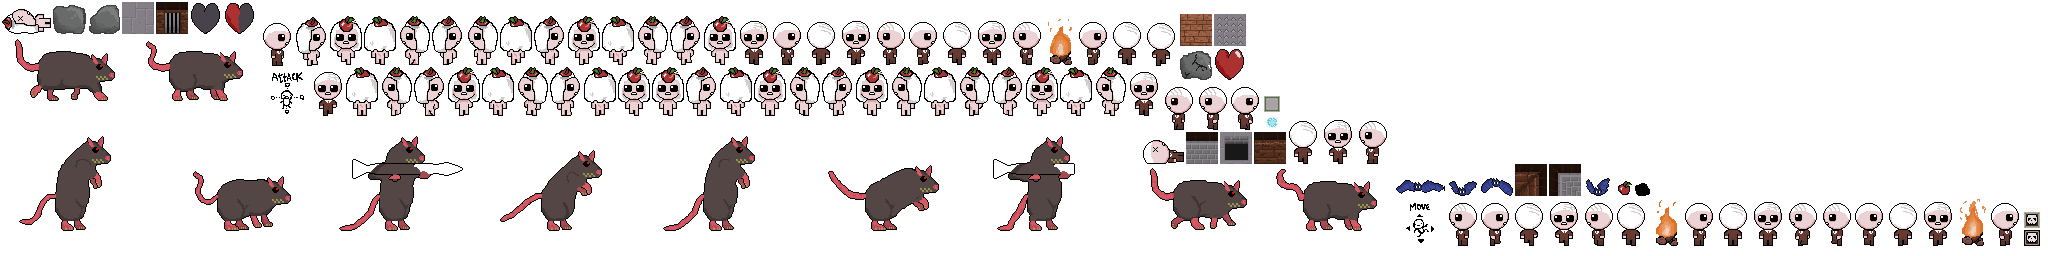
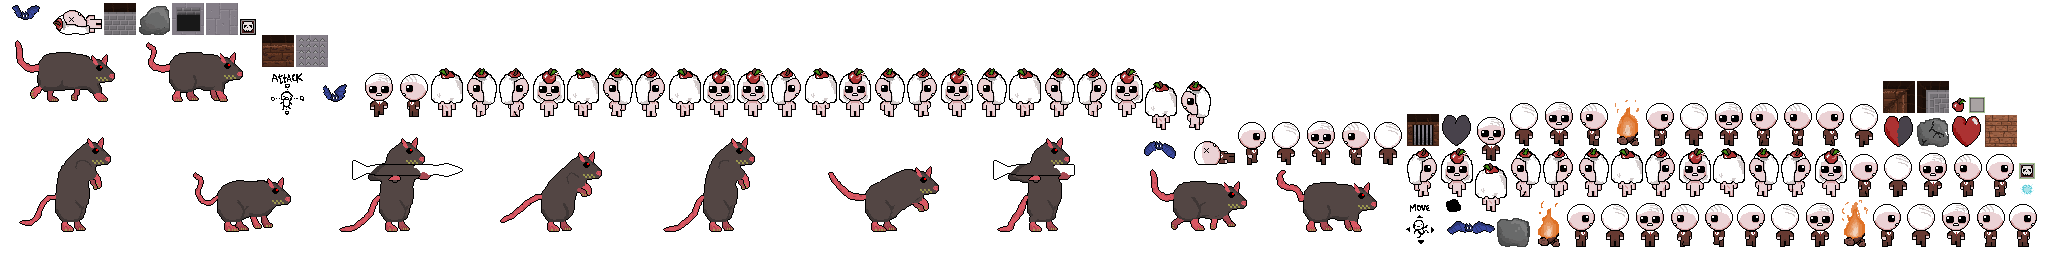
Added 2nd floor tileset and bat animation

diff --git a/core/assets/map/tiled/room.tsx b/core/assets/map/tiled/room.tsx
@@ -1,5 +1,5 @@
 <?xml version="1.0" encoding="UTF-8"?>
-<tileset version="1.5" tiledversion="1.5.0" name="room" tilewidth="48" tileheight="48" tilecount="13" columns="0">
+<tileset version="1.5" tiledversion="1.5.0" name="room" tilewidth="48" tileheight="48" tilecount="18" columns="0">
  <grid orientation="orthogonal" width="1" height="1"/>
  <tile id="0">
   <image width="32" height="32" source="../img/wall.png"/>
@@ -69,5 +69,20 @@
  </tile>
  <tile id="17">
   <image width="32" height="32" source="../img/door-open.png"/>
+ </tile>
+ <tile id="18">
+  <image width="32" height="32" source="../img/floor-stone.png"/>
+ </tile>
+ <tile id="19">
+  <image width="32" height="32" source="../img/floor-stone-hole.png"/>
+ </tile>
+ <tile id="20">
+  <image width="32" height="32" source="../img/floor-stone-spikes.png"/>
+ </tile>
+ <tile id="21">
+  <image width="32" height="32" source="../img/wall-stone.png"/>
+ </tile>
+ <tile id="22">
+  <image width="32" height="32" source="../img/wall-stone-corner.png"/>
  </tile>
 </tileset>
